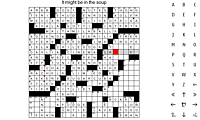
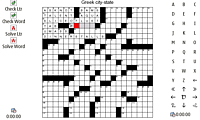
Updated web page and images for v1.0.8.

diff --git a/www/index.html b/www/index.html
@@ -1,6 +1,10 @@
 <html>
   <head>
     <title>xword for maemo</title>
+    <style type="text/css">
+      div.shot { width: 220px; margin-bottom: 20px; 
+                 float: left; text-align: center; }
+    </style>
   </head>
   <body>
 
@@ -11,6 +15,7 @@
       <a href="#installing">installing</a> | 
       <a href="#running">running</a> | 
       <a href="#desktop">desktop</a> | 
+      <a href="#trouble">troubleshooting</a> | 
       <a href="#bugs">bugs</a> 
     </div>
 
@@ -24,8 +29,8 @@
       href="http://www.pygtk.org/">pyGTK</a>.  It is based on the <a
       href="http://x-word.org/">original Xword program</a> written by Bill
     McCloskey.  The NIT version fixes a few bugs in the original code and
-    adds some functionality (e.g. built-in keyboard) to make the
-    program more usable on the NIT.
+    adds functionality (e.g. built-in keyboard) to make the program more
+    usable on the NIT.
     </p>
     <p>
     Before you go any farther, you should be aware of the following
@@ -33,9 +38,9 @@
     <ul>
       <li>The program is <b>sloooow</b>.  It is basically one very long
       python script.  On the NIT with large crossword puzzles, there is
-      sometimes a one second delay between input and screen update.
-      Fortunately, touchscreen inputs are queued so that you don't have to
-      wait for the screen to update before entering the next letter.
+      a noticeable delay between input and screen update.  Fortunately,
+      touchscreen inputs are queued so that you don't have to wait for the
+      screen to update before entering the next letter.
     </li>
     <li>The program has been tested with OS2006, OS2007, and OS2008, so it
     should run on any Nokia Internet Tablet, including the 770. The
@@ -122,15 +127,12 @@
       <ul>
         <li><b>Open...</b> - Open a .puz file.
         </li>
-        <li><b>Open Recent</b> - Show a list of the last five .puz files
-        opened.  This allows you to quickly (re)open recent puzzles.
+        <li><b>Open Recent &gt;</b> - Show a list of the last five .puz
+        files opened.  This allows you to quickly (re)open recent puzzles.
         </li>
         <li><b>Save As...</b> - Save the current puzzle to a new file.  
         Note that the state of the current puzzle gets saved
         automatically when you exit the program.
-        </li>
-        <li><b>Properties...</b> - Show the properties of the current
-        puzzle.  This includes the title, author, and copyright information.
         </li>
         <li><b>Quit</b> - Exit the xword application.
         </li>
@@ -143,24 +145,63 @@
     <b>Puzzle</b>
     <blockquote>
       <ul>
-        <li><b>Check Word</b> - Check the current word for correctness.  If
-        the word is correct, you will be shown a pop-up window saying "No
-        mistakes found".  Otherwise, you will be shown a pop-up window saying
-        "Incorrect" and the incorrect letters will be marked with a big "X"
-        through them as well as a small black triangle in the corner to keep
-        track of the letters you needed help with.
+        <li><b>Check &gt;</b> - Check the current item for correctness.  If
+        the item is correct, you will be shown a pop-up window saying "No
+        mistakes found".  Otherwise, you will be shown a pop-up window
+        saying "Incorrect" and the incorrect squares will be marked with a
+        big "X" through them.  When you correct the letters, a small black
+        triangle will be shown in the corner to keep track of the letters
+        you needed help with.
+        <blockquote>
+          <ul>
+            <li><b>Letter</b> - Check the current letter for correctness.
+            </li>
+            <li><b>Word</b> - Check the current word for correctness.  
+            </li>
+            <li><b>Puzzle</b> - Perform "Check Letter" on all currently
+             filled-in squares.  Thus, you can check a partially completed
+             puzzle.
+            </li>
+          </ul>
+        </blockquote>
         </li>
-        <li><b>Check Puzzle</b> - Perform "Check Word" on all currently
-        filled in words.  Thus, the puzzle does not need to be complete to
-        check it.
+        <li><b>Solve &gt;</b> - Fill in the correct letters for the current
+            item.  The letters that get filled in by the application will be
+            marked with a small red triangle in the corner to keep track of
+            the letters you needed help with.
+        <blockquote>
+          <ul>
+            <li><b>Letter</b> - Fill in the correct letter for the current
+            letter.
+            </li>
+            <li><b>Word</b> - Fill in the correct letters for the current
+            word.  
+            </li>
+            <li><b>Puzzle</b> - Fill in all letters for the puzzle.  Note
+            that you will be asked to confirm this selection before the
+            program shows you the solution.
+            </li>
+          </ul>
+        </blockquote>
         </li>
-        <li><b>Solve Word</b> - Fill in the correct letters for the current
-        word.  The letters that get filled in by the application will be
-        marked with a small red triangle in the corner to keep track of the
-        letters you needed help with.
+        <li><b>Clear &gt;</b> - Clear the letter(s) and any error marks for
+        the current item.  This allows you to "cheat" by removing all black
+        and red triangles showing the letters you needed help with.  
+        <blockquote>
+          <ul>
+            <li><b>Letter</b> - Clear the current square.
+            </li>
+            <li><b>Word</b> - Clear the current word.
+            </li>
+            <li><b>Puzzle</b> - Completely clear the current puzzle and
+            start from scratch.  Note that you will be asked to confirm this
+            selection before the program resets the puzzle.
+            </li>
+          </ul>
+        </blockquote>
         </li>
-        <li><b>Clear Puzzle</b> - Completely clear the current puzzle and
-        start from scratch.
+        <li><b>Properties...</b> - Show the properties of the current
+        puzzle.  This includes the title, author, and copyright information.
         </li>
         <li><b>Notepad...</b> - Read notes embedded in the puzzle, or
         make your own notes which will be saved along with the current
@@ -183,15 +224,22 @@
         which allows a 21x21 puzzle to fit full screen without scrollbars.
         You can set this value between 12 and 40 inclusive.
         </li>
-        <li><b>Toolbar Layout</b> - Set the location of the "toolbar".  The
-        toolbar can be turned off entirely to maximize screen real estate.
-        You can show the "Check" buttons, which duplicate the functionality
-        of the "Puzzle" menu above AND provide a clock timer.  Or you can
-        show the "Keyboard" which allows you to enter letters and duplicates
-        some functionality of the hardware buttons.  The toolbar can be
-        shown on the left or right side of the screen.
+        <li><b>Solution Buttons &gt;</b> - Set the location of the
+        check/solve buttons.  The default is "off".  Alternatively, you can
+        show them on any side of the screen.  You are given buttons to
+        conveniently "Check/Solve" a "Letter/Word", as well as a timer
+        button.
         </li>
-        <li><b>Word List Layout</b> - The "word list" is the list of
+        <li><b>Onscreen Keyboard &gt;</b> - Set the location of the onscreen
+        keyboard.  The default is "off".  Alternatively, you can show it on
+        any side of the screen.  The keyboard has the letters A-Z as well as
+        some extra buttons to aid in cursor movement.  There are also two
+        "Check/Solve" buttons and a timer button.  The "Check/Solve" buttons
+        check/solve the current word when clicked.  However, these buttons
+        also support "tap-and-hold" which brings up a pop-up menu to
+        check/solve the current letter, word, or puzzle.
+        </li>
+        <li><b>Word List Layout &gt;</b> - The "word list" is the list of
         horizontal and vertical clues.  The default is to show only the
         puzzle.  Alternatively, you can show the word list on the left,
         right, top, bottom, or some combination of these.
@@ -265,45 +313,61 @@
     <p>
     <img src="xword-keys.png" alt="Special keys"/>
     </p>
+    <p>
+    Note: The "Check Word" and "Solve Word" buttons also support
+    "tap-and-hold".  When you tap-hold these buttons, you get a pop-up
+    menu which enables you to check/solve a letter, word, or puzzle.
+    </p>
 
     <hr width="70%">
 
     <h2>screen shots</h2>
 
-    <p>
+    <div class="shot">
     <a href="xword-shot1.png"><img src="xword-shot1-small.png"
-      alt="screenshot1" align="center"/></a> Windowed view with keyboard on
+      alt="screenshot1"/></a><br/>Windowed view with keyboard on
     right
-    </p>
-    <p>
+    </div>
+    <div class="shot">
     <a href="xword-shot2.png"><img src="xword-shot2-small.png"
-      alt="screenshot1" align="center"/></a> Full screen view with keyboard on
-    right
-    </p>
-    <p>
+      alt="screenshot2"/></a><br/>Full screen view with solution buttons on
+    left and keyboard on right
+    </div>
+    <div class="shot">
     <a href="xword-shot3.png"><img src="xword-shot3-small.png"
-      alt="screenshot1" align="center"/></a> Full screen view with word list
-      on left and keyboard on right
-    </p>
-    <p>
+      alt="screenshot3" /></a><br/>Full screen view with word list
+      on left and solution buttons on right
+    </div>
+    <br clear="all"/>
+    <div class="shot">
     <a href="xword-shot4.png"><img src="xword-shot4-small.png"
-      alt="screenshot1" align="center"/></a> Windowed view with checks on left
-    </p>
-    <p>
+      alt="screenshot4"/></a><br/>Windowed view with minimum box size 
+    set to 14
+    </div>
+    <div class="shot">
     <a href="xword-shot5.png"><img src="xword-shot5-small.png"
-      alt="screenshot1" align="center"/></a> Windowed view with minimum box
-    size set to 14
-    </p>
-    <p>
+      alt="screenshot5"/></a><br/>Windowed view with minimum box
+    size set to 40 
+    </div>
+    <div class="shot">
     <a href="xword-shot6.png"><img src="xword-shot6-small.png"
-      alt="screenshot1" align="center"/></a> Windowed view with minimum box
-    size set to 40
-    </p>
-    <p>
-    <a href="xword-shot7.png"><img src="xword-shot7-small.png"
-      alt="screenshot1" align="center"/></a> "File-&gt;Properties..." pop-up
+      alt="screenshot6"/></a><br/>"Puzzle-&gt;Properties..." pop-up
     box
-    </p>
+    </div>
+    <br clear="all"/>
+    <div class="shot">
+    <a href="xword-shot7.png"><img src="xword-shot7-small.png"
+      alt="screenshot7"/></a><br/><a
+      href="http://behindmaemolines.blogspot.com/2008/03/screen-rotation-support-on-os2008-n8x0.html">Rotated</a> full screen with solution buttons
+    on top and keyboard on bottom
+    </div>
+    <div class="shot">
+    <a href="xword-shot8.png"><img src="xword-shot8-small.png"
+      alt="screenshot8"/></a><br/><a
+      href="http://behindmaemolines.blogspot.com/2008/03/screen-rotation-support-on-os2008-n8x0.html">Rotated</a> full screen with word list on
+    top/bottom and keyboard on bottom
+    </div>
+    <br clear="all"/>
 
     <hr/>
 
@@ -312,7 +376,7 @@
     So you want to solve crosswords on your home computer?  Well, you could
     simply download <a
       href="http://www.litsoft.com/across/alite/download.htm">Across
-      Lite</a> for your platform.  But you can also use the same xword
+      Lite</a> for your platform.  Or you can use the same xword
     program that runs on your NIT on any computer that supports <a
       href="http://www.python.org/">python</a>, <a
       href="http://www.pygtk.org/">pyGTK</a>, and <a
@@ -341,23 +405,44 @@
 
     <hr/>
 
+    <a name="trouble"><h1>troubleshooting</h1></a>
+    <p>
+    The program maintains two special hidden files/directories in your home
+    directory.  The "<tt>.crossword.cfg</tt>" file maintains the
+    configuration settings for the program.  The "<tt>.crossword_puzzles</tt>"
+    directory holds the current state for all .puz files you have opened in
+    the past.  If you ever have any problems starting the program or
+    (re)opening a .puz file, you may need to delete these files/directories.
+    To do so, open an xterm and type the following command.
+    </p>
+    <p>
+    <pre>
+        rm  -rf  ~/.crossword.cfg  ~/.crossword_puzzles/</pre>
+    </p>
+
+    <hr/>
+
     <a name="bugs"><h1>bugs</h1></a>
+    <p>
     Please report bugs to the <a
       href="https://garage.maemo.org/projects/xword">xword on maemo
       team</a>.  Here are some known bugs.
-    <ol>
-      <li>There is limited support for "locked" puzzles.  You cannot use the
-      "check word", "solve word", or "check puzzle" functions since the
-      answers are encrypted.  However, you can solve the puzzle on your own.
-      When an unlocked version of the puzzle comes out, you can continue
-      your partially filled in puzzle and then use the "check" functions.
+    </p>
+    <p>
+    <ul>
+      <li>There is limited support for "locked" puzzles.  You cannot use any
+      of the "check" or "solve" functions since the answers are encrypted.
+      However, you can solve the puzzle on your own.  When an unlocked
+      version of the puzzle comes out, you can continue your partially
+      filled-in puzzle and then use the "check/solve" functions.
       </li>
-    </ol>
+    </ul>
+    </p>
 
     <hr/>
 
     <div align="center">
-    Last update: May 21, 2008
+    Last update: June 2, 2008
     </div>
 
   </body>
